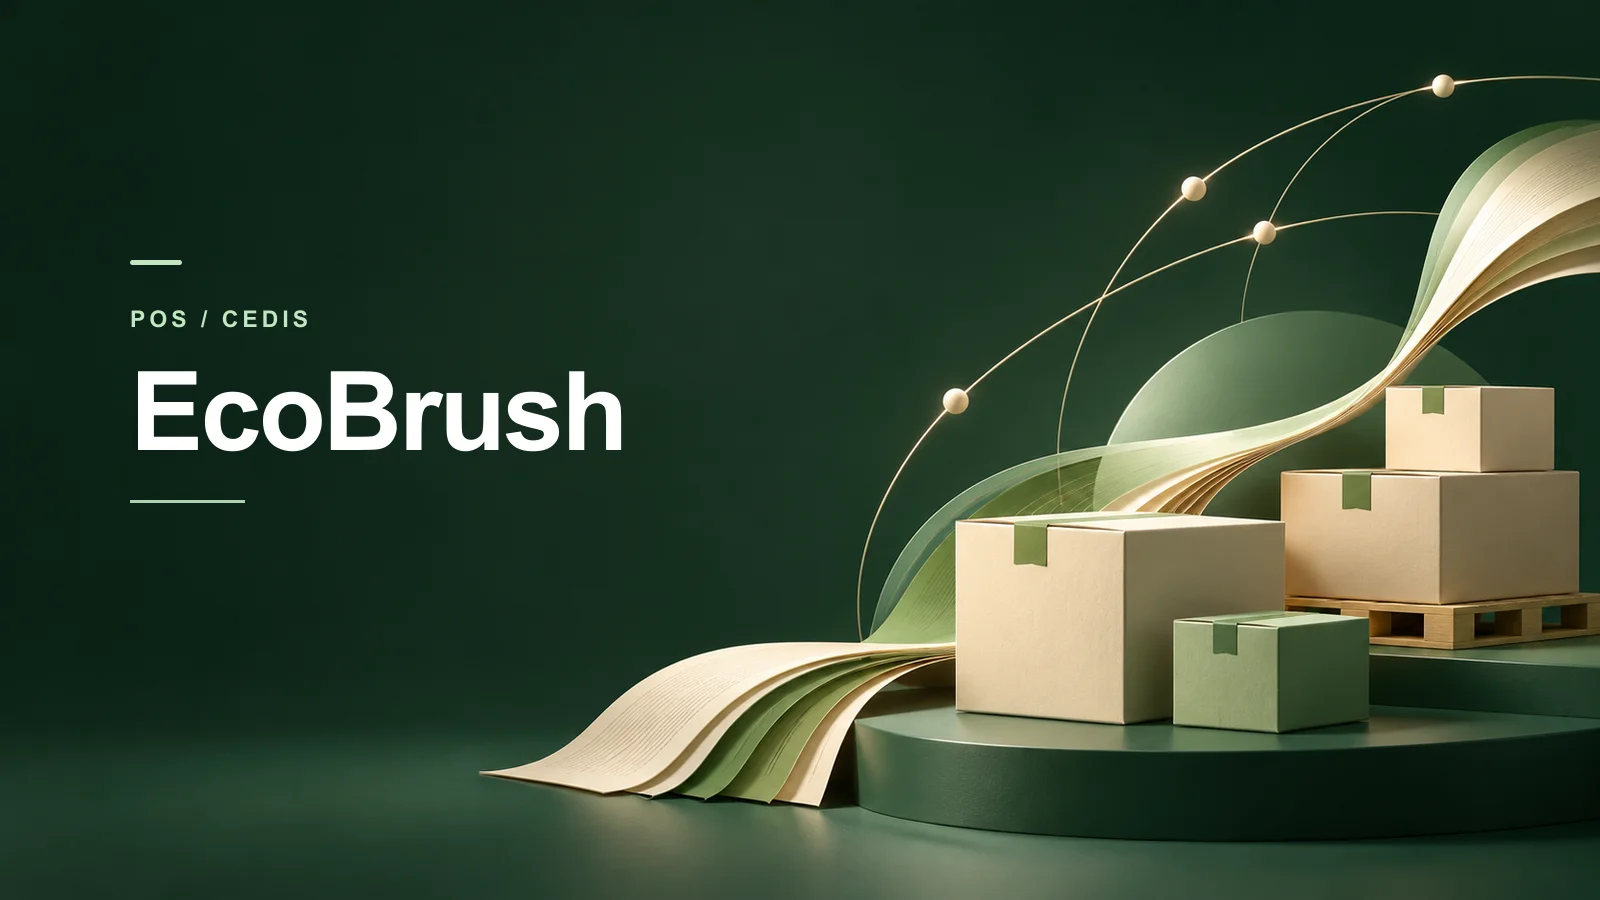
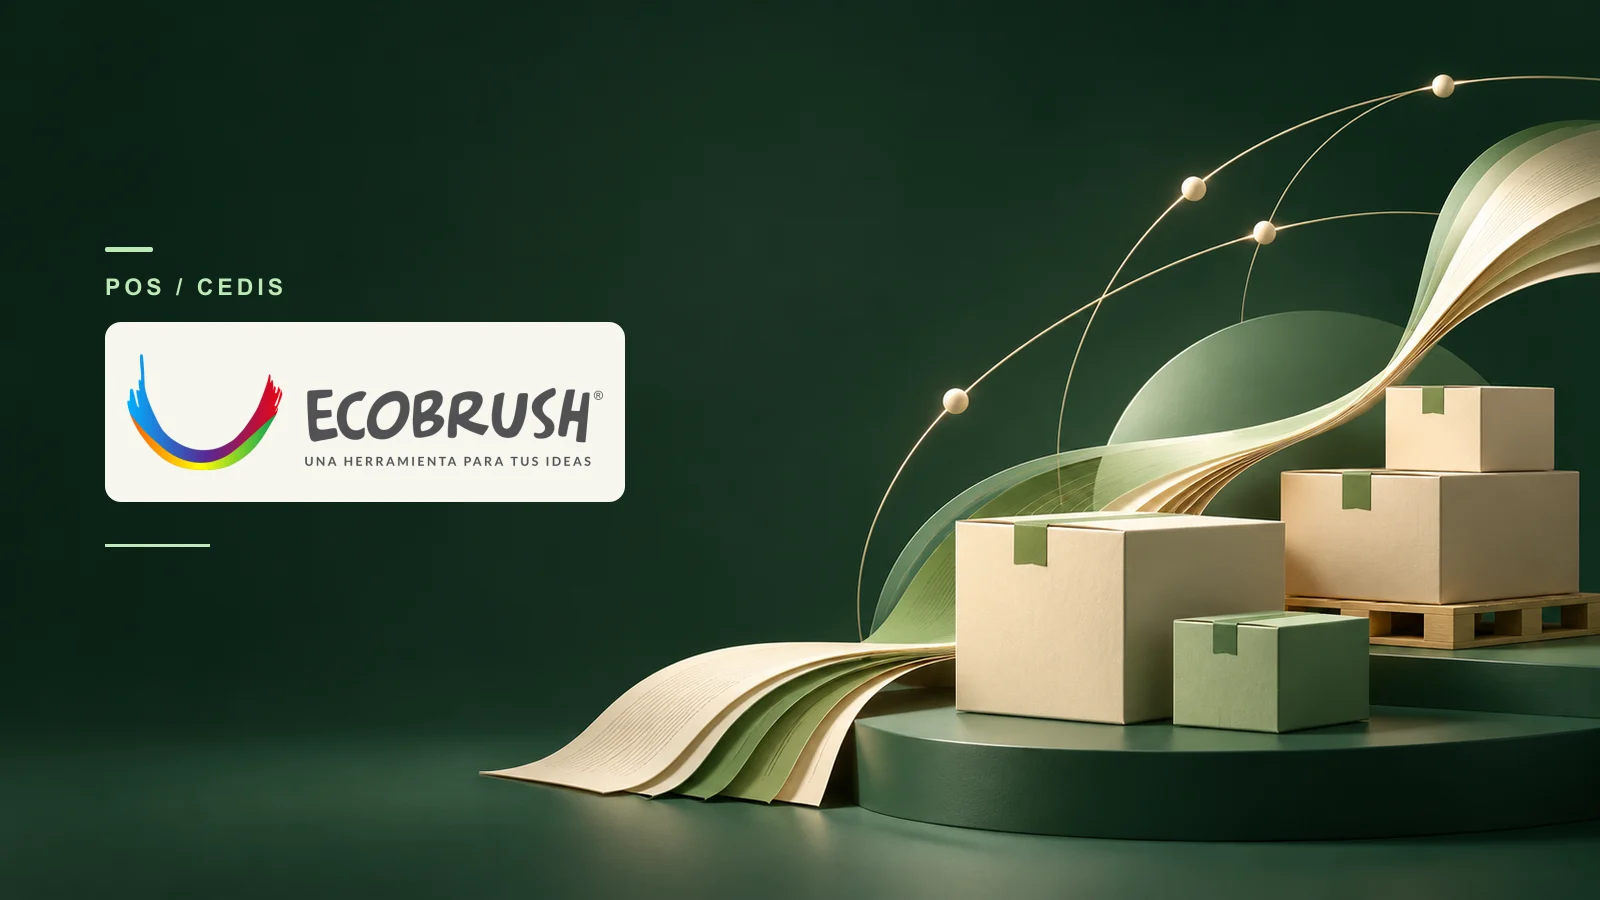
feat(portfolio): refine branded conceptual covers

Changed region(s): [[0.0625, 0.28, 0.4062, 0.56], [0.0938, 0.5911, 0.125, 0.6222], [0.0625, 0.2489, 0.0938, 0.28]]

diff --git a/docs/project-contributions.md b/docs/project-contributions.md
@@ -180,7 +180,8 @@ Comprobar con npm run lint, npm run build y node --test tests/portfolio-projects
 
 ### Portadas conceptuales del portafolio (2026-11-13)
 
-- Se agregó una portada conceptual a EcoBrush, Resident Check, IMCHISSA, TuxVentas, Voldo, Nivo y FitLog. Las escenas son ilustraciones generadas, no fotografías de productos, capturas reales ni logotipos oficiales. Sus pies lo indican en español e inglés; las capturas y diagramas anteriores se conservaron.
+- Se agregó una portada conceptual a EcoBrush, Resident Check, IMCHISSA, TuxVentas, Voldo, Nivo y FitLog. Las escenas son ilustraciones generadas, no fotografías de productos ni capturas reales. Las portadas incorporan marcas procedentes de los archivos de cada proyecto. Sus pies lo indican en español e inglés; las capturas y diagramas anteriores se conservaron.
 - Los fondos se generaron mediante OpenDesign con el proveedor de imagen de Codex. El adaptador no reconoció los nombres `exec-*.png` de los resultados; se recuperaron los PNG generados y se incorporaron manualmente al proyecto local de OpenDesign `cb93f09b-ff10-4148-9191-d7f48ee43cde`. Los originales se conservaron en `C:/Dev/RESULTS-OpenDesging/results/PORTFOLIO/Portadas-Proyectos`; allí quedan los fondos, los títulos SVG editables y `index.html` para revisión. Las versiones WebP del portafolio combinan cada fondo con su título.
 - Se ajustaron los logros de EcoBrush y Voldo para destacar, respectivamente, la validación numérica de precios y la migración, el modelo y el controlador de documentos; la atribución se respalda en los commits `9f38c7c` y `6dd716f`.
 - La galeria muestra el pie fuera de la imagen en vista normal para mantenerlo legible; en pantalla completa muestra el texto en la parte superior. Las miniaturas de imagen muestran el recurso completo sin recortarlo.
+- Las marcas proceden de los recursos locales de EcoBrush, Resident Check, IMCHISSA, TuxVentas, Voldo, Nivo y FitLog; las composiciones y sus fondos siguen siendo ilustrativos.
